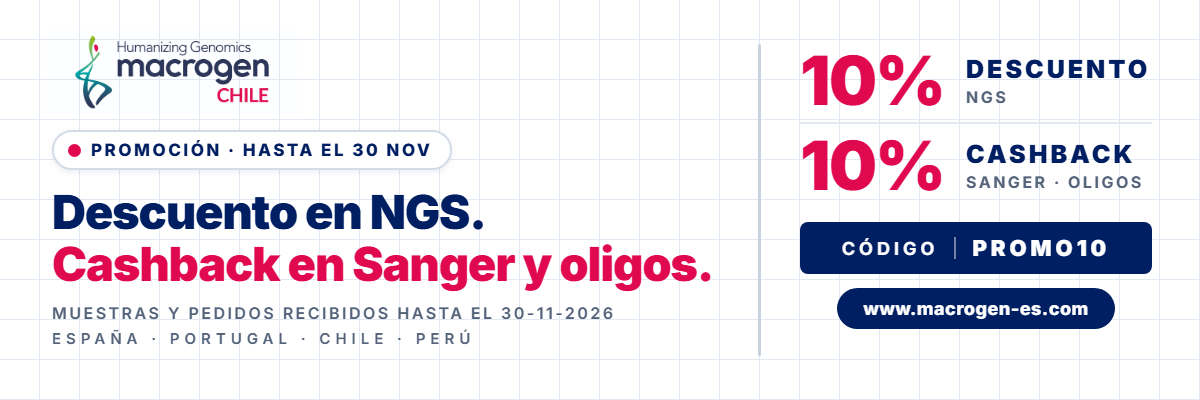
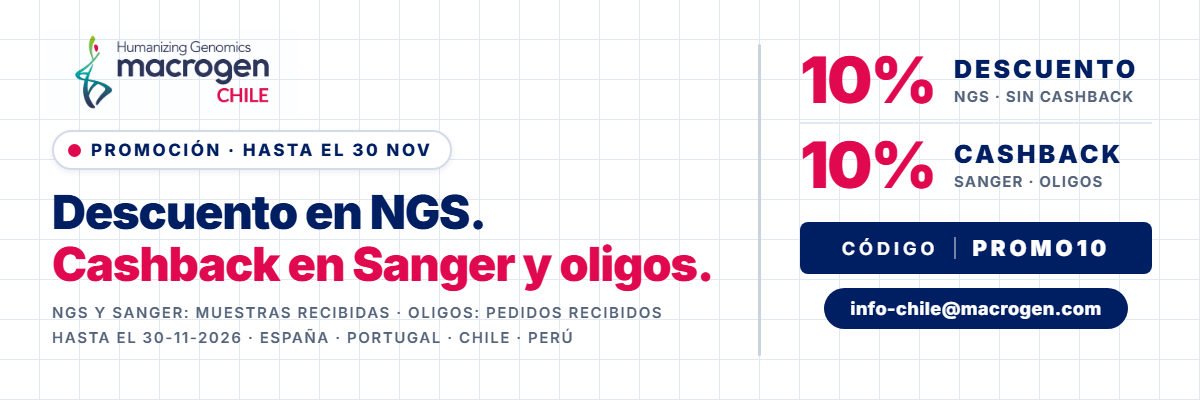
PROMO10: condiciones aprobadas por dirección (14 oct)
- NGS: 10% de descuento directo sobre el precio habitual, sin cashback;
  no se aplica a precios especiales o de contrato.
- Sanger (CES) y oligos: crédito cashback del 10%, válido 1 año desde su
  emisión y utilizable solo en Sanger u oligos.
- Fechas límite separadas: NGS y Sanger por muestras recibidas, oligos por
  pedido recibido (30 nov 2026).
- No acumulable con el Beneficio de fin de año CES de Macrogen Chile.

Aplicado en barra, popup, aviso y banner de contacto, cotizador, página
Sanger y cajas de blog. Banners de firma actualizados (el de Chile muestra
info-chile@macrogen.com). El popup hace scroll interno en pantallas bajas
para que el botón de cerrar siga visible.

diff --git a/assets/js/main.js b/assets/js/main.js
@@ -10,14 +10,15 @@ document.addEventListener('DOMContentLoaded', () => {
   // that mention the code disappear automatically. Next campaign = edit
   // this PROMO object only. Test an expired promo with ?showpromo=1.
   const PATH_PREFIX = /\/(servicios|blog)\//.test(location.pathname) ? '../' : '';
-  // Promo PROMO10 (Oct–Nov 2026), all site countries: 10% discount on NGS (applied in the quote);
-  // 10% cashback on CES (Sanger) and oligo synthesis (credit worth 10% of the order, for the next order).
+  // Promo PROMO10 (Oct–Nov 2026), all site countries: 10% direct discount on NGS (normal price, applied in
+  // the quote; no cashback; not for special/contract prices). 10% cashback on CES (Sanger) and oligo synthesis:
+  // credit worth 10% of the order, valid 1 year from issue, usable only on CES and oligos.
   // NGS and CES: samples received by 30 Nov 2026; oligos: orders received by 30 Nov 2026.
   // Not combinable with the CES year-end cashback campaign (Chile): one benefit per order.
   const PROMO = {
     code: 'PROMO10',
     ends: '2026-11-30', // last valid day, inclusive (local time)
-    summary: '10% de descuento en NGS · 10% de cashback en Sanger (CES) y síntesis de oligos · muestras recibidas hasta el 30 nov 2026',
+    summary: 'NGS: 10% de descuento directo (sin cashback) · Sanger (CES) y síntesis de oligos: 10% de cashback en crédito válido 1 año desde su emisión, solo para Sanger u oligos',
     html: '<span class="lb-tag">PROMOCIÓN</span> <strong>10% dto.</strong> en <strong>NGS</strong> · <strong>10% cashback</strong> en <strong>Sanger y oligos</strong> · hasta el 30 nov 2026 <a href="{pre}contacto?promo=PROMO10" class="lb-cta">Cotizar →</a>'
   };
   const PROMO_ACTIVE = new URLSearchParams(location.search).get('showpromo') === '1'
@@ -233,7 +234,7 @@ document.addEventListener('DOMContentLoaded', () => {
       <span class="promo-banner-icon"></span>
       <div class="promo-banner-text">
         <strong>Aplicaremos tu beneficio PROMO10</strong>
-        <span>Código <code>${PROMO.code}</code> · ${PROMO.summary} (oligos: pedidos recibidos hasta esa fecha). El cashback se entrega como crédito para tu próximo pedido.</span>
+        <span>Código <code>${PROMO.code}</code> · ${PROMO.summary}. NGS y Sanger: muestras recibidas hasta el 30 nov 2026; oligos: pedidos recibidos hasta esa fecha. El descuento NGS no se aplica a precios especiales o de contrato. No acumulable con el Beneficio de fin de año CES de Macrogen Chile.</span>
       </div>
     ` : `
       <span class="promo-banner-icon"></span>
@@ -312,7 +313,7 @@ document.addEventListener('DOMContentLoaded', () => {
         </div>
         <div class="promo-body">
           <h3 class="promo-title" id="promo-title">de descuento en NGS y de cashback en Sanger y oligos</h3>
-          <p class="promo-subtitle">El cashback vuelve como crédito para tu próximo pedido · válido en España, Portugal, Chile y Perú</p>
+          <p class="promo-subtitle">NGS: descuento directo, sin cashback · Sanger y oligos: crédito válido 1 año desde su emisión, solo para Sanger u oligos</p>
           <div class="promo-services">
             <div class="promo-service-pill is-ngs">
               <span class="ico">🔬</span>
@@ -341,7 +342,7 @@ document.addEventListener('DOMContentLoaded', () => {
             <a href="contacto?promo=${PROMO.code}" class="promo-btn-order" data-promo-order>Cotizar ahora →</a>
             <button type="button" class="promo-btn-dismiss" data-promo-dismiss>Tal vez después</button>
           </div>
-          <p class="promo-validity">⏱ NGS y Sanger: muestras recibidas <strong>hasta el 30 de noviembre de 2026</strong> · Oligos: pedidos recibidos hasta esa fecha · No acumulable con la campaña de cashback CES de fin de año de Macrogen Chile</p>
+          <p class="promo-validity">⏱ NGS y Sanger: muestras recibidas <strong>hasta el 30 de noviembre de 2026</strong> · Oligos: pedidos recibidos hasta esa fecha · Válido en España, Portugal, Chile y Perú · El descuento NGS no se aplica a precios especiales o de contrato · No acumulable con el Beneficio de fin de año CES de Macrogen Chile</p>
           <button type="button" class="promo-btn-never" data-promo-never style="display:block; margin:12px auto 0; background:transparent; border:none; color:rgba(255,255,255,0.42); font-size:11px; cursor:pointer; text-decoration:underline; letter-spacing:0.3px; font-weight:500; padding:6px 12px; transition:color 0.2s;" onmouseover="this.style.color='rgba(255,255,255,0.85)';" onmouseout="this.style.color='rgba(255,255,255,0.42)';"><span aria-hidden="true">🚫</span> No mostrar más esta promoción</button>
         </div>
       </div>

diff --git a/contacto.html b/contacto.html
@@ -113,7 +113,7 @@
         <!-- ===== PROMO10 promo note (removed automatically by main.js after PROMO.ends) + Direct Customer pricing note ===== -->
         <div data-promo-note style="margin-top:18px; padding:14px 16px; background:linear-gradient(135deg,#FEF7E8,#FFE9D6); border:1.5px solid #F5A623; border-radius:10px; font-size:13px; line-height:1.55;">
           <div style="font-weight:700; color:#D97706; margin-bottom:4px;">Promoción · vigente hasta el 30 nov 2026</div>
-          <span style="color:var(--mc-navy-ink);"><strong>PROMO10</strong> · <strong>10% de descuento en NGS</strong> y <strong>10% de cashback en Sanger (CES) y síntesis de oligos</strong> (crédito equivalente al 10% del pedido para tu próximo pedido) para cotizaciones en España, Portugal, Chile y Perú. Indica el código PROMO10 al describir tu proyecto. <em>NGS y Sanger: muestras recibidas hasta el 30 de noviembre de 2026; oligos: pedidos recibidos hasta esa fecha. No acumulable con la campaña de cashback CES de fin de año de Macrogen Chile.</em></span>
+          <span style="color:var(--mc-navy-ink);"><strong>PROMO10</strong> · <strong>NGS: 10% de descuento directo</strong> sobre el precio habitual (sin cashback; no se aplica a precios especiales o de contrato) · <strong>Sanger (CES) y síntesis de oligos: 10% de cashback</strong> en crédito válido durante un año desde su emisión y utilizable solo en Sanger u oligos. Válida para cotizaciones en España, Portugal, Chile y Perú. Indica el código PROMO10 al describir tu proyecto. <em>NGS y Sanger: muestras recibidas hasta el 30 de noviembre de 2026; oligos: pedidos recibidos hasta esa fecha. No acumulable con el Beneficio de fin de año CES de Macrogen Chile.</em></span>
         </div>
 
         <div data-es-pricing-note style="display:none; margin-top:12px; padding:14px 16px; background:#EAF6FB; border:1.5px solid var(--mc-teal); border-radius:10px; font-size:13px; line-height:1.55;">

diff --git a/blog/newsletter-junio-2026-ai-hub-songdo-launch.html b/blog/newsletter-junio-2026-ai-hub-songdo-launch.html
@@ -344,7 +344,7 @@
       <div data-promo-note style="background:linear-gradient(135deg,#FEF7E8,#FFE9D6); border:1.5px solid #F5A623; border-radius:12px; padding:20px 24px; margin:32px 0;">
         <strong style="color:#B45309; display:block; margin-bottom:6px; font-size:11px; letter-spacing:1.5px; text-transform:uppercase;">Promoción PROMO10 · hasta el 30 nov 2026</strong>
         <h3 style="margin:0 0 10px; font-size:18px; color:#1B2A57;">10% de cashback en Sanger · 10% de descuento en NGS</h3>
-        <p style="font-size:13.5px; margin:0 0 14px; color:#2A3A52;">Indica el código <code style="background:#1B2A57; color:#fff; padding:2px 8px; border-radius:4px; font-weight:700;">PROMO10</code> al pedir tu cotización. En Sanger y síntesis de oligos, el 10% del pedido vuelve como crédito para tu próximo pedido. NGS y Sanger: muestras recibidas hasta el 30 de noviembre de 2026; oligos: pedidos recibidos hasta esa fecha.</p>
+        <p style="font-size:13.5px; margin:0 0 14px; color:#2A3A52;">Indica el código <code style="background:#1B2A57; color:#fff; padding:2px 8px; border-radius:4px; font-weight:700;">PROMO10</code> al pedir tu cotización. En Sanger y síntesis de oligos, el 10% del pedido vuelve como crédito, válido durante un año desde su emisión y utilizable solo en Sanger u oligos. En NGS, el 10% es un descuento directo sobre el precio habitual, sin cashback (no se aplica a precios especiales o de contrato). NGS y Sanger: muestras recibidas hasta el 30 de noviembre de 2026; oligos: pedidos recibidos hasta esa fecha. No acumulable con el Beneficio de fin de año CES de Macrogen Chile.</p>
         <a href="../contacto?servicio=sanger&amp;promo=PROMO10" class="btn btn-primary" style="font-size:14px;">Cotizar Sanger con PROMO10 →</a>
       </div>
 

diff --git a/blog/precio-secuenciacion-ngs-sanger.html b/blog/precio-secuenciacion-ngs-sanger.html
@@ -313,7 +313,7 @@
       <div data-promo-note style="background:linear-gradient(135deg,#FEF7E8,#FFE9D6); border:1.5px solid #F5A623; border-radius:12px; padding:20px 24px; margin:32px 0;">
         <strong style="color:#B45309; display:block; margin-bottom:6px; font-size:11px; letter-spacing:1.5px; text-transform:uppercase;">Promoción PROMO10 · hasta el 30 nov 2026</strong>
         <h3 style="margin:0 0 10px; font-size:18px; color:#1B2A57;">10% de cashback en Sanger · 10% de descuento en NGS</h3>
-        <p style="font-size:13.5px; margin:0 0 14px; color:#2A3A52;">Indica el código <code style="background:#1B2A57; color:#fff; padding:2px 8px; border-radius:4px; font-weight:700;">PROMO10</code> al pedir tu cotización. En Sanger y síntesis de oligos, el 10% del pedido vuelve como crédito para tu próximo pedido. NGS y Sanger: muestras recibidas hasta el 30 de noviembre de 2026; oligos: pedidos recibidos hasta esa fecha.</p>
+        <p style="font-size:13.5px; margin:0 0 14px; color:#2A3A52;">Indica el código <code style="background:#1B2A57; color:#fff; padding:2px 8px; border-radius:4px; font-weight:700;">PROMO10</code> al pedir tu cotización. En Sanger y síntesis de oligos, el 10% del pedido vuelve como crédito, válido durante un año desde su emisión y utilizable solo en Sanger u oligos. En NGS, el 10% es un descuento directo sobre el precio habitual, sin cashback (no se aplica a precios especiales o de contrato). NGS y Sanger: muestras recibidas hasta el 30 de noviembre de 2026; oligos: pedidos recibidos hasta esa fecha. No acumulable con el Beneficio de fin de año CES de Macrogen Chile.</p>
         <a href="../contacto?servicio=sanger&amp;promo=PROMO10" class="btn btn-primary" style="font-size:14px;">Cotizar Sanger con PROMO10 →</a>
       </div>
 

diff --git a/blog/sanger-vs-ngs-validacion.html b/blog/sanger-vs-ngs-validacion.html
@@ -260,7 +260,7 @@
       <div data-promo-note style="background:linear-gradient(135deg,#FEF7E8,#FFE9D6); border:1.5px solid #F5A623; border-radius:12px; padding:20px 24px; margin:32px 0;">
         <strong style="color:#B45309; display:block; margin-bottom:6px; font-size:11px; letter-spacing:1.5px; text-transform:uppercase;">Promoción PROMO10 · hasta el 30 nov 2026</strong>
         <h3 style="margin:0 0 10px; font-size:18px; color:#1B2A57;">10% de cashback en Sanger · 10% de descuento en NGS</h3>
-        <p style="font-size:13.5px; margin:0 0 14px; color:#2A3A52;">Indica el código <code style="background:#1B2A57; color:#fff; padding:2px 8px; border-radius:4px; font-weight:700;">PROMO10</code> al pedir tu cotización. En Sanger y síntesis de oligos, el 10% del pedido vuelve como crédito para tu próximo pedido. NGS y Sanger: muestras recibidas hasta el 30 de noviembre de 2026; oligos: pedidos recibidos hasta esa fecha.</p>
+        <p style="font-size:13.5px; margin:0 0 14px; color:#2A3A52;">Indica el código <code style="background:#1B2A57; color:#fff; padding:2px 8px; border-radius:4px; font-weight:700;">PROMO10</code> al pedir tu cotización. En Sanger y síntesis de oligos, el 10% del pedido vuelve como crédito, válido durante un año desde su emisión y utilizable solo en Sanger u oligos. En NGS, el 10% es un descuento directo sobre el precio habitual, sin cashback (no se aplica a precios especiales o de contrato). NGS y Sanger: muestras recibidas hasta el 30 de noviembre de 2026; oligos: pedidos recibidos hasta esa fecha. No acumulable con el Beneficio de fin de año CES de Macrogen Chile.</p>
         <a href="../contacto?servicio=sanger&amp;promo=PROMO10" class="btn btn-primary" style="font-size:14px;">Cotizar Sanger con PROMO10 →</a>
       </div>
 

diff --git a/servicios/secuenciacion-sanger.html b/servicios/secuenciacion-sanger.html
@@ -212,7 +212,7 @@
         <div style="font-size:11px; letter-spacing:1.5px; font-weight:800; color:#B45309; text-transform:uppercase; margin-bottom:4px;">Promoción PROMO10 · ES · PT · CL · PE</div>
         <strong style="font-size:18px; display:block; margin-bottom:4px; color:#1B2A57;">10% de cashback en Sanger</strong>
         <span style="font-size:13px; color:#3D4B63; display:block;">Código <code style="background:#1B2A57; color:#fff; padding:2px 8px; border-radius:4px; font-weight:700;">PROMO10</code> · muestras recibidas hasta el <strong>30 de noviembre de 2026</strong></span>
-        <span style="font-size:11px; color:#3D4B63; display:block; margin-top:4px; font-style:italic;">El 10% del pedido vuelve como crédito para tu próximo pedido. No acumulable con la campaña de cashback CES de fin de año de Macrogen Chile.</span>
+        <span style="font-size:11px; color:#3D4B63; display:block; margin-top:4px; font-style:italic;">El 10% del pedido vuelve como crédito cashback, válido durante un año desde su emisión y utilizable solo en Sanger (CES) u oligos. No acumulable con el Beneficio de fin de año CES de Macrogen Chile.</span>
       </div>
       <a href="../contacto?servicio=sanger&amp;promo=PROMO10" class="btn btn-primary" style="white-space:nowrap;">Cotizar con PROMO10 →</a>
     </div>

diff --git a/cotizador.html b/cotizador.html
@@ -1242,7 +1242,7 @@ const TREE = {
       'Reporte BI-REPORT con cromatograma + secuencia consenso',
       'Validación de variantes NGS típica (gold standard)',
       ...(Date.now() <= new Date('2026-11-30T23:59:59').getTime()
-        ? ['Promoción PROMO10 (hasta el 30 nov 2026): Sanger y oligos con 10% de cashback (crédito para tu próximo pedido) · NGS con 10% de descuento · muestras y pedidos de oligos recibidos hasta esa fecha']
+        ? ['Promoción PROMO10 (hasta el 30 nov 2026): Sanger y oligos con 10% de cashback (crédito válido 1 año desde su emisión, solo para Sanger u oligos) · NGS con 10% de descuento directo sobre el precio habitual, sin cashback (no se aplica a precios especiales o de contrato) · NGS y Sanger: muestras recibidas; oligos: pedidos recibidos · No acumulable con el Beneficio de fin de año CES de Macrogen Chile']
         : []),
     ],
     specialist:'Equipo Sanger · Iberoamérica',

diff --git a/assets/css/main.css b/assets/css/main.css
@@ -2320,7 +2320,11 @@ body:has(.service-subnav) section[id] { scroll-margin-top: calc(var(--header-h, 
   border-radius: var(--mc-radius-lg);
   width: 100%;
   max-width: 440px;
-  overflow: hidden;
+  /* Scroll inside the modal on short phones so the close button stays reachable. */
+  max-height: calc(100vh - 32px);
+  max-height: calc(100dvh - 32px);
+  overflow-x: hidden;
+  overflow-y: auto;
   border: 1px solid rgba(255,255,255,.14);
   box-shadow: var(--mc-shadow-lg);
   position: relative;
